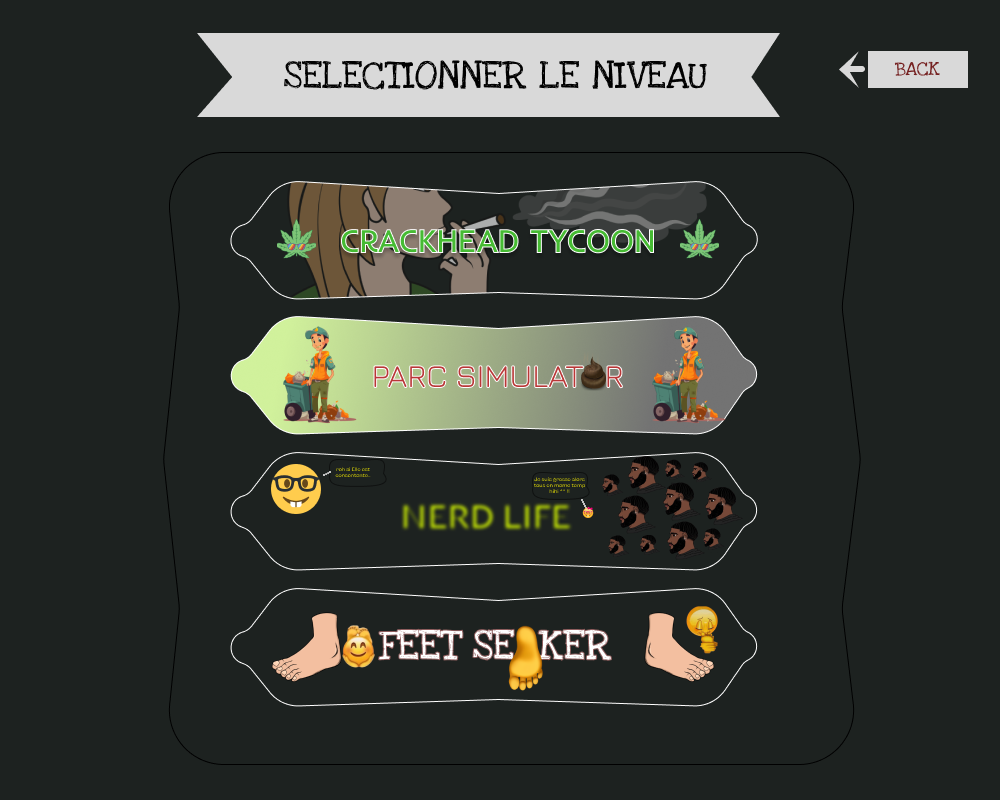
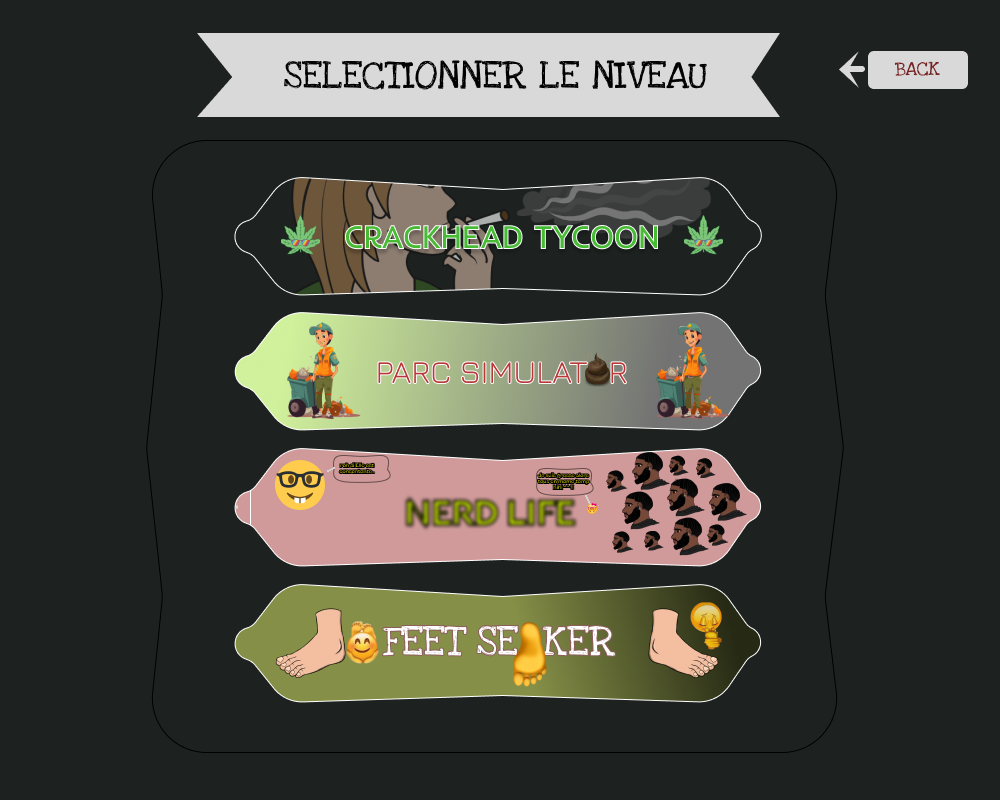
Nouveau effet Hover choix

Changed region(s): [[0.217, 0.2188, 0.775, 0.9062], [0.744, 0.4375, 0.775, 0.4688], [0.217, 0.2812, 0.248, 0.3125]]

diff --git a/ChoixNiveau/choixNiv.py b/ChoixNiveau/choixNiv.py
@@ -18,11 +18,9 @@ class ChoixLVL:
 
                 point = self.PyFonct.RecupererEvenementSouris()
                 self.ClickChoix(point)
-                self.PyFonct.Dessin(Const.CHOIXCRACKEAD)
-                self.PyFonct.Dessin(Const.CHOIXPARC)
-                self.PyFonct.Dessin(Const.CHOIXNERD)
-                self.PyFonct.Dessin(Const.CHOIXFEET)
-                self.PyFonct.Dessin(Const.BACKCHOIXBUTTON)
+
+                self.hoverChoix()
+
                 self.PyFonct.actualiserFenetreGraphique()
 
         def ClickChoix(self, point):
@@ -42,3 +40,20 @@ class ChoixLVL:
                     elif self.PyFonct.RangePolygone(Const.BACKCHOIXBUTTON,point):
                         self.BoucleLVL = False
 
+        def hoverChoix(self):
+            point = self.PyFonct.MouseCOORD()
+            if point is not None:
+                if self.PyFonct.RangePolygone(Const.CHOIXCRACKEAD, point):
+                    self.PyFonct.afficherImage(230, 175, self.PyFonct.choixHover)
+
+                elif self.PyFonct.RangePolygone(Const.CHOIXPARC, point):
+                    self.PyFonct.afficherImage(230, 311, self.PyFonct.choixHover)
+
+                elif self.PyFonct.RangePolygone(Const.CHOIXNERD, point):
+                    self.PyFonct.afficherImage(230, 447, self.PyFonct.choixHover)
+
+                elif self.PyFonct.RangePolygone(Const.CHOIXFEET, point):
+                    self.PyFonct.afficherImage(230, 583, self.PyFonct.choixHover)
+
+                elif self.PyFonct.RangePolygone(Const.BACKCHOIXBUTTON, point):
+                    self.PyFonct.afficherImage(862, 50, self.PyFonct.BackChoixHover)

diff --git a/Constante.py b/Constante.py
@@ -7,6 +7,7 @@ class Const:
     BTNQUIT_ACCUEIL =    [(324, 502), (694, 502), (667, 553), (694, 602), (324, 602), (357, 553)]
     BTNMUSIQUE_ACCUEIL = [(867, 673), (974, 673), (974, 715), (867, 715)]
 
+
     # Dessin de chaque forme de l'accueil
     n = 136
     CHOIXCRACKEAD = [(195, 238), (248, 223), (281, 180), (499, 193), (714, 180), (745, 223), (776, 238), (745, 256), (714, 300), (499, 293), (281, 300), (248, 259)]
@@ -32,9 +33,9 @@ class Const:
 
     CHOIXNIV = "Images/Menu/Choix.png"
 
+    HOVERBACKCHOIX = "Images/Menu/HoverBack.png"
 
-
-
+    HOVERCHOIX = "Images/Menu/HoverChoix.png"
 
 
     #COULEURS

diff --git a/menu.py b/menu.py
@@ -31,7 +31,7 @@ class Menu:
         point = self.PyFonct.MouseCOORD()
         if point is not None:
             if self.PyFonct.RangePolygone(Const.BTNPLAY_ACCUEIL, point):
-                self.PyFonct.afficherImage(231, 229,self.PyFonct.triangle_selection)
+                self.PyFonct.afficherImage(231, 229, self.PyFonct.triangle_selection)
 
             elif self.PyFonct.RangePolygone(Const.BTNSETTING_ACCUEIL, point):
                 self.PyFonct.afficherImage(231, 368, self.PyFonct.triangle_selection)

diff --git a/PygameFonct.py b/PygameFonct.py
@@ -14,6 +14,9 @@ class PyFonct:
         self.triangle_selection = pygame.image.load(Const.TRIANGLE_SELECTION)
         self.choixniveau = pygame.image.load(Const.CHOIXNIV)
 
+        self.BackChoixHover = pygame.image.load(Const.HOVERBACKCHOIX)
+        self.choixHover = pygame.image.load(Const.HOVERCHOIX)
+
 
 
 
